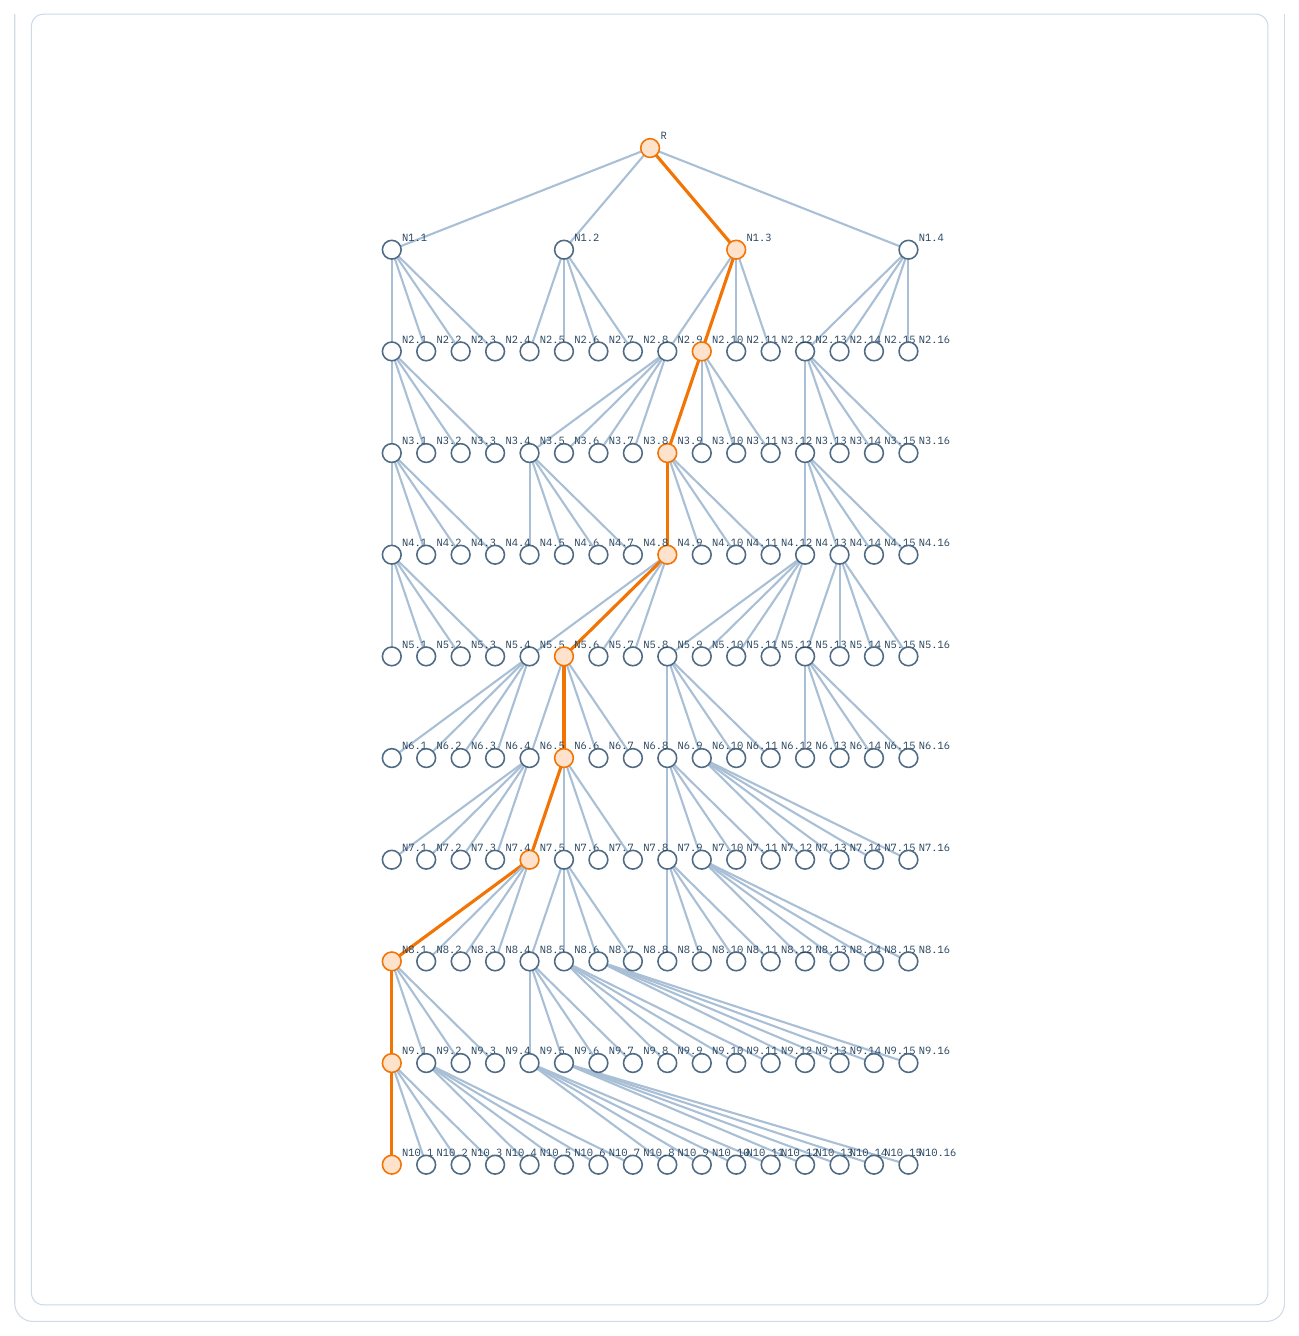
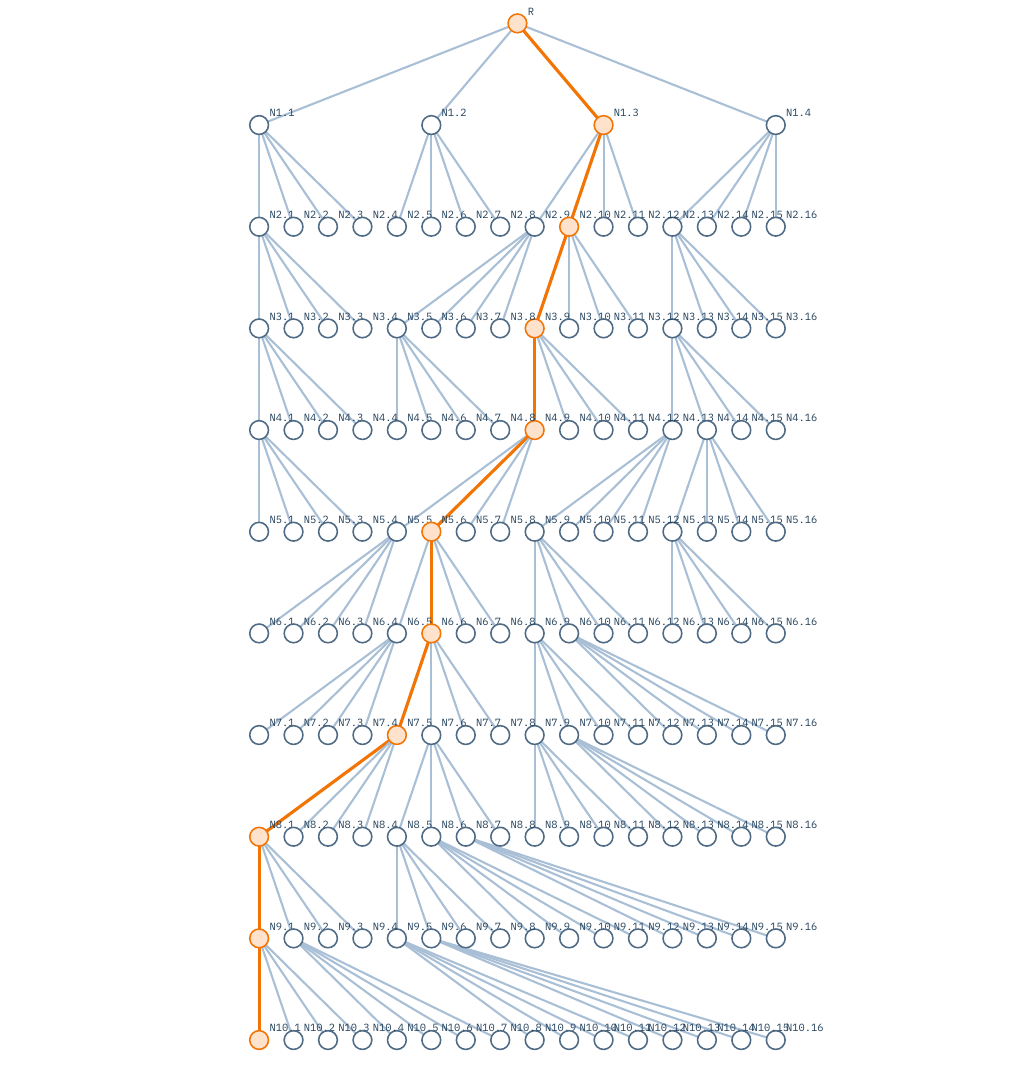
Crop debugger figures with the paper's LaTeX trim values
fig_debugger_a: drop the empty tree-header section at the bottom and the title block, easing the top trim (123->116pt) so the Custom Input Runner card keeps a margin. fig_debugger_b: the tree's own trim (120/360/120/40) drops the card border and empty space. Recipe recorded in FIGURES.md.

diff --git a/blog/FIGURES.md b/blog/FIGURES.md
@@ -47,10 +47,12 @@ CHROME="/Applications/Google Chrome.app/Contents/MacOS/Google Chrome"
 
 ```bash
 IMG="../_ACL_2026__ThinkBooster_demo (1)/images"
-pdftoppm -png -r 200 -singlefile "$IMG/main-1-new.pdf" fig_debugger_a
-pdftoppm -png -r 200 -singlefile "$IMG/main-2-new.pdf" fig_debugger_b
-# then trim the card whitespace to content with Pillow:
-#   diff vs white, threshold >28, crop to getbbox()+14px margin
+# Render full pages (1700x2200 at 200 dpi), then crop with the paper's LaTeX trim
+# values (trim=L B R T in pt). At 200 dpi, 1pt = 200/72 px; Pillow box = (L, T, W-R, H-B).
+pdftoppm -png -r 200 -singlefile "$IMG/main-1-new.pdf" /tmp/m1
+pdftoppm -png -r 200 -singlefile "$IMG/main-2-new.pdf" /tmp/m2
+#   fig_debugger_a  <- main-1-new, trim 75 105 75 116  (paper uses T=123; eased to 116 for a top margin)
+#   fig_debugger_b  <- main-2-new, trim 120 360 120 40 (paper's tree crop; drops the border + empty space)
 ```
 
 | PNG | View |
